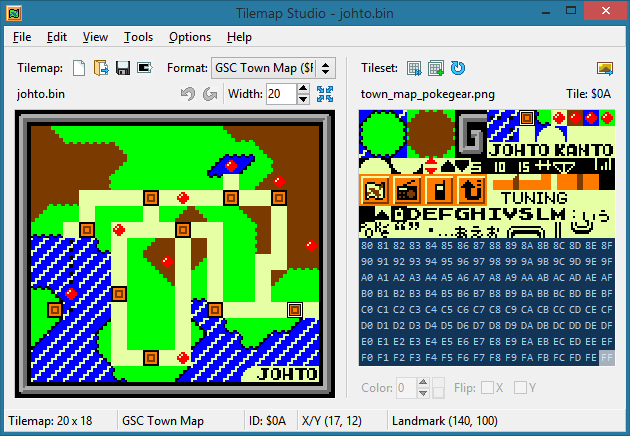
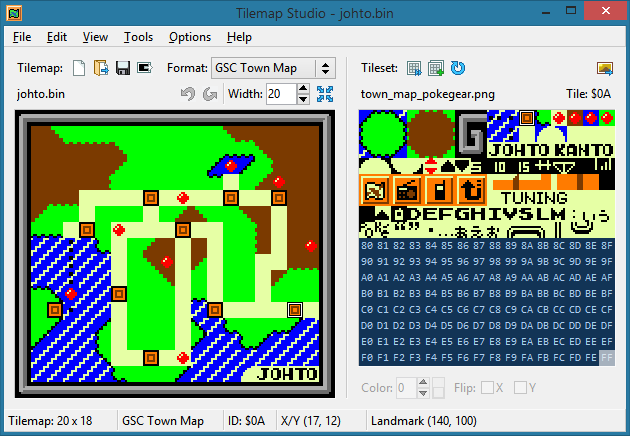
Remove unused RLE format and refactor other formats

Changed region(s): [[0.3619, 0.9541, 0.8143, 0.9839], [0.4825, 0.1491, 0.5127, 0.1789]]

diff --git a/res/help.html b/res/help.html
@@ -21,13 +21,12 @@ R"(<html>
 </ul>
 <p>Be sure to set the right format (via the Format toolbar dropdown, or the Options&nbsp;→&nbsp;Format menu) before opening a tilemap. The available formats are:</p>
 <ul>
-<li><b>Plain:</b> Each byte is a tile ID, top to bottom, left to right. A byte goes from $00 (0) to $FF (255), so there are 256 possible tiles.</li>
-<li><b>Run-length encoded (RLE):</b> Each pair of bytes encodes a tile ID and a length to repeat that tile. For example, $F0 $0D encodes a sequence of 13 tiles with ID $F0. (A length of 0 is valid but would do nothing.)</li>
-<li><b>GSC Town Map ($FF end):</b> A sequence of tile IDs ended by an $FF byte (so $FF is not a valid tile ID). Meant for the Town Map tilemaps in pokecrystal: gfx)" DIR_SEP "pokegear" DIR_SEP R"(johto.bin and kanto.bin.</li>
-<li><b>Pok&eacute;gear card (RLE + $FF end):</b> A sequence of tile IDs and run lengths, ended by an $FF byte (so $FF is not a valid tile ID). Meant for the Pok&eacute;gear card tilemaps in pokecrystal: gfx)" DIR_SEP "pokegear" DIR_SEP R"(*.tilemap.rle.</li>
-<li><b>RBY Town Map (RLE nybbles + $00 end):</b> A sequence of bytes that each encode a tile ID in their high nybble and a run length in their low nybble, ended by a $00 byte. For example, $42 encodes a sequence of two tiles with ID $04. Only 16 tile IDs can be represented, $00 to $0F. Meant for the Town Map tilemap in pokered: gfx)" DIR_SEP R"(town_map.rle.</li>
-<li><b>PC Town Map (X/Y flip):</b> A sequence of bytes that each encode a tile ID in their low six bits and X/Y flip attributes in their high two bits, ended by an $FF byte. Only 64 tile IDs can be represented, $00 to $3F. Meant for the Town Map tilemaps in <a href="https://github.com/Rangi42/polishedcrystal">Polished Crystal</a>: gfx)" DIR_SEP "town_map" DIR_SEP R"(*.bin.</li>
-<li><b>SGB border (tile + attribute):</b> Each pair of bytes encodes a tile ID and an attribute byte. The only supported attribute bits are X/Y flip and four colors. Meant for the SGB borders in pokered: gfx)" DIR_SEP "red" DIR_SEP "sgbborder.map and gfx" DIR_SEP "blue" DIR_SEP R"(sgbborder.map.</li>
+<li><b>Plain tiles:</b> Each byte is a tile ID, top to bottom, left to right. A byte goes from $00 (0) to $FF (255), so there are 256 possible tiles.</li>
+<li><b>Tiles + attributes:</b> Each pair of bytes encodes a tile ID and an attribute byte. The only supported attribute bits are X/Y flip and four colors. Meant for the SGB borders in pokered: gfx)" DIR_SEP "red" DIR_SEP "sgbborder.map and gfx" DIR_SEP "blue" DIR_SEP R"(sgbborder.map. Also applies to some other tilemaps in pokecrystal.</li>
+<li><b>RBY Town Map:</b> A sequence of bytes that each encode a tile ID in their high nybble and a run length in their low nybble, ended by a $00 byte. For example, $46 encodes a sequence of six tiles with ID $04. Only 16 tile IDs can be represented, $00 to $0F. Meant for the Town Map tilemap in pokered: gfx)" DIR_SEP R"(town_map.rle.</li>
+<li><b>GSC Town Map:</b> A sequence of tile IDs ended by an $FF byte (so $FF is not a valid tile ID). Meant for the Town Map tilemaps in pokecrystal: gfx)" DIR_SEP "pokegear" DIR_SEP R"(johto.bin and kanto.bin.</li>
+<li><b>PC Town Map:</b> A sequence of bytes that each encode a tile ID in their low six bits and X/Y flip attributes in their high two bits, ended by an $FF byte. Only 64 tile IDs can be represented, $00 to $3F. Meant for the Town Map tilemaps in <a href="https://github.com/Rangi42/polishedcrystal">Polished Crystal</a>: gfx)" DIR_SEP "town_map" DIR_SEP R"(*.bin.</li>
+<li><b>Pok&eacute;gear card:</b> A sequence of tile IDs and run lengths, ended by an $FF byte (so $FF is not a valid tile ID). For example, $F0 $0D encodes a sequence of 13 tiles with ID $F0. Meant for the Pok&eacute;gear card tilemaps in pokecrystal: gfx)" DIR_SEP "pokegear" DIR_SEP R"(*.tilemap.rle.</li>
 </ul>
 <hr>
 <p>Most functions are available via the menu bar, the toolbars, or shortcut keys.</p>

diff --git a/src/main-window.cpp b/src/main-window.cpp
@@ -72,7 +72,13 @@ Main_Window::Main_Window(int x, int y, int w, int h, const char *) : Fl_Double_W
 	wh -= _status_bar->h();
 	_tilemap_dimensions = new Status_Bar_Field(0, 0, text_width("Tilemap: 999 x 999", 8), 21, "");
 	new Spacer(0, 0, 2, 21);
-	_tilemap_format = new Status_Bar_Field(0, 0, text_width("Run-length encoded", 8), 21, "");
+	int wgt_w = 0;
+	for (int i = 0; i < NUM_FORMATS; i++) {
+		const char *l = format_name((Tilemap_Format)i);
+		int lw = text_width(l, 8);
+		if (lw > wgt_w) { wgt_w = lw; }
+	}
+	_tilemap_format = new Status_Bar_Field(0, 0, wgt_w, 21, "");
 	new Spacer(0, 0, 2, 21);
 	_hover_id = new Status_Bar_Field(0, 0, text_width("ID: $99", 8), 21, "");
 	new Spacer(0, 0, 2, 21);
@@ -92,7 +98,7 @@ Main_Window::Main_Window(int x, int y, int w, int h, const char *) : Fl_Double_W
 	int gx = _left_group->x(), gy = _left_group->y(), gw = _left_group->w(), gh = _left_group->h();
 	_left_top_bar = new Fl_Group(gx, gy, gw, wgt_h);
 	int bx = _left_top_bar->x(), by = _left_top_bar->y(), bw = _left_top_bar->w(), bh = _left_top_bar->h();
-	int wgt_w = text_width("Tilemap:", 4);
+	wgt_w = text_width("Tilemap:", 4);
 	Label *tilemap_heading = new Label(bx, by, wgt_w, bh, "Tilemap:");
 	bx += tilemap_heading->w(); bw -= tilemap_heading->w();
 	_new_tb = new Toolbar_Button(bx, by, wgt_h, wgt_h);
@@ -332,20 +338,18 @@ Main_Window::Main_Window(int x, int y, int w, int h, const char *) : Fl_Double_W
 		{},
 		OS_SUBMENU("&Options"),
 		OS_MENU_ITEM("&Format", 0, NULL, NULL, FL_SUBMENU),
-		OS_MENU_ITEM("&Plain", FL_COMMAND + '1', (Fl_Callback *)plain_format_cb, this,
+		OS_MENU_ITEM("Plain &tiles", FL_COMMAND + '1', (Fl_Callback *)plain_format_cb, this,
 			FL_MENU_RADIO | (Config::format() == Tilemap_Format::PLAIN ? FL_MENU_VALUE : 0)),
-		OS_MENU_ITEM("&Run-length encoded (RLE)", FL_COMMAND + '2', (Fl_Callback *)rle_format_cb, this,
-			FL_MENU_RADIO | (Config::format() == Tilemap_Format::RLE ? FL_MENU_VALUE : 0)),
-		OS_MENU_ITEM("GSC &Town Map ($FF end)", FL_COMMAND + '3', (Fl_Callback *)gsc_town_map_format_cb, this,
-			FL_MENU_RADIO | (Config::format() == Tilemap_Format::FF_END ? FL_MENU_VALUE : 0)),
-		OS_MENU_ITEM("Pok\xc3\xa9gear &card (RLE + $FF end)", FL_COMMAND + '4', (Fl_Callback *)pokegear_card_format_cb, this,
-			FL_MENU_RADIO | (Config::format() == Tilemap_Format::RLE_FF_END ? FL_MENU_VALUE : 0)),
-		OS_MENU_ITEM("RBY Town Map (RLE &nybbles + $00 end)", FL_COMMAND + '5', (Fl_Callback *)rby_town_map_format_cb, this,
-			FL_MENU_RADIO | (Config::format() == Tilemap_Format::RLE_NYBBLES ? FL_MENU_VALUE : 0)),
-		OS_MENU_ITEM("PC Town Map (&X\x2fY flip)", FL_COMMAND + '6', (Fl_Callback *)pc_town_map_format_cb, this,
-			FL_MENU_RADIO | (Config::format() == Tilemap_Format::XY_FLIP ? FL_MENU_VALUE : 0)),
-		OS_MENU_ITEM("&SGB border (tile + attribute)", FL_COMMAND + '7', (Fl_Callback *)sgb_border_format_cb, this,
+		OS_MENU_ITEM("Tiles + &attributes", FL_COMMAND + '2', (Fl_Callback *)sgb_border_format_cb, this,
 			FL_MENU_RADIO | (Config::format() == Tilemap_Format::TILE_ATTR ? FL_MENU_VALUE : 0)),
+		OS_MENU_ITEM("&RBY Town Map", FL_COMMAND + '3', (Fl_Callback *)rby_town_map_format_cb, this,
+			FL_MENU_RADIO | (Config::format() == Tilemap_Format::RLE_NYBBLES ? FL_MENU_VALUE : 0)),
+		OS_MENU_ITEM("&GSC Town Map", FL_COMMAND + '4', (Fl_Callback *)gsc_town_map_format_cb, this,
+			FL_MENU_RADIO | (Config::format() == Tilemap_Format::FF_END ? FL_MENU_VALUE : 0)),
+		OS_MENU_ITEM("&PC Town Map", FL_COMMAND + '5', (Fl_Callback *)pc_town_map_format_cb, this,
+			FL_MENU_RADIO | (Config::format() == Tilemap_Format::XY_FLIP ? FL_MENU_VALUE : 0)),
+		OS_MENU_ITEM("Pok\xc3\xa9gear &card", FL_COMMAND + '6', (Fl_Callback *)pokegear_card_format_cb, this,
+			FL_MENU_RADIO | (Config::format() == Tilemap_Format::RLE_FF_END ? FL_MENU_VALUE : 0)),
 		{},
 		OS_MENU_ITEM("Show SGB &Colors", FL_COMMAND + 'G', (Fl_Callback *)show_attributes_cb, this,
 			FL_MENU_TOGGLE | (Config::attributes() ? FL_MENU_VALUE : 0)),
@@ -377,12 +381,11 @@ Main_Window::Main_Window(int x, int y, int w, int h, const char *) : Fl_Double_W
 	_rose_gold_theme_mi = PM_FIND_MENU_ITEM_CB(rose_gold_theme_cb);
 	_dark_theme_mi = PM_FIND_MENU_ITEM_CB(dark_theme_cb);
 	_plain_format_mi = PM_FIND_MENU_ITEM_CB(plain_format_cb);
-	_rle_format_mi = PM_FIND_MENU_ITEM_CB(rle_format_cb);
-	_gsc_town_map_format_mi = PM_FIND_MENU_ITEM_CB(gsc_town_map_format_cb);
-	_pokegear_card_format_mi = PM_FIND_MENU_ITEM_CB(pokegear_card_format_cb);
-	_rby_town_map_format_mi = PM_FIND_MENU_ITEM_CB(rby_town_map_format_cb);
-	_pc_town_map_format_mi = PM_FIND_MENU_ITEM_CB(pc_town_map_format_cb);
 	_sgb_border_format_mi = PM_FIND_MENU_ITEM_CB(sgb_border_format_cb);
+	_rby_town_map_format_mi = PM_FIND_MENU_ITEM_CB(rby_town_map_format_cb);
+	_gsc_town_map_format_mi = PM_FIND_MENU_ITEM_CB(gsc_town_map_format_cb);
+	_pc_town_map_format_mi = PM_FIND_MENU_ITEM_CB(pc_town_map_format_cb);
+	_pokegear_card_format_mi = PM_FIND_MENU_ITEM_CB(pokegear_card_format_cb);
 	_grid_mi = PM_FIND_MENU_ITEM_CB(grid_cb);
 	_rainbow_tiles_mi = PM_FIND_MENU_ITEM_CB(rainbow_tiles_cb);
 	_show_attributes_mi = PM_FIND_MENU_ITEM_CB(show_attributes_cb);
@@ -420,13 +423,9 @@ Main_Window::Main_Window(int x, int y, int w, int h, const char *) : Fl_Double_W
 	_print_tb->image(PRINT_ICON);
 	_print_tb->deimage(PRINT_DISABLED_ICON);
 
-	_format->add("Plain");                                // PLAIN
-	_format->add("Run-length encoded (RLE)");             // RLE
-	_format->add("GSC Town Map ($FF end)");               // FF_END
-	_format->add("Pok\xc3\xa9gear card (RLE + $FF end)"); // RLE_FF_END
-	_format->add("RBY Town Map (RLE nybbles + $00 end)"); // RLE_NYBBLES
-	_format->add("PC Town Map (X\\/Y flip)");             // XY_FLIP
-	_format->add("SGB border (tile + attribute)");        // TILE_ATTR
+	for (int i = 0; i < NUM_FORMATS; i++) {
+		_format->add(format_name((Tilemap_Format)i));
+	}
 	_format->value(Config::format());
 	_format->callback((Fl_Callback *)format_tb_cb, this);
 
@@ -1630,22 +1629,8 @@ void Main_Window::plain_format_cb(Fl_Menu_ *, Main_Window *mw) {
 	mw->redraw();
 }
 
-void Main_Window::rle_format_cb(Fl_Menu_ *, Main_Window *mw) {
-	Config::format(Tilemap_Format::RLE);
-	mw->_format->value(Config::format());
-	mw->update_active_controls();
-	mw->redraw();
-}
-
-void Main_Window::gsc_town_map_format_cb(Fl_Menu_ *, Main_Window *mw) {
-	Config::format(Tilemap_Format::FF_END);
-	mw->_format->value(Config::format());
-	mw->update_active_controls();
-	mw->redraw();
-}
-
-void Main_Window::pokegear_card_format_cb(Fl_Menu_ *, Main_Window *mw) {
-	Config::format(Tilemap_Format::RLE_FF_END);
+void Main_Window::sgb_border_format_cb(Fl_Menu_ *, Main_Window *mw) {
+	Config::format(Tilemap_Format::TILE_ATTR);
 	mw->_format->value(Config::format());
 	mw->update_active_controls();
 	mw->redraw();
@@ -1658,6 +1643,13 @@ void Main_Window::rby_town_map_format_cb(Fl_Menu_ *, Main_Window *mw) {
 	mw->redraw();
 }
 
+void Main_Window::gsc_town_map_format_cb(Fl_Menu_ *, Main_Window *mw) {
+	Config::format(Tilemap_Format::FF_END);
+	mw->_format->value(Config::format());
+	mw->update_active_controls();
+	mw->redraw();
+}
+
 void Main_Window::pc_town_map_format_cb(Fl_Menu_ *, Main_Window *mw) {
 	Config::format(Tilemap_Format::XY_FLIP);
 	mw->_format->value(Config::format());
@@ -1665,8 +1657,8 @@ void Main_Window::pc_town_map_format_cb(Fl_Menu_ *, Main_Window *mw) {
 	mw->redraw();
 }
 
-void Main_Window::sgb_border_format_cb(Fl_Menu_ *, Main_Window *mw) {
-	Config::format(Tilemap_Format::TILE_ATTR);
+void Main_Window::pokegear_card_format_cb(Fl_Menu_ *, Main_Window *mw) {
+	Config::format(Tilemap_Format::RLE_FF_END);
 	mw->_format->value(Config::format());
 	mw->update_active_controls();
 	mw->redraw();
@@ -1689,8 +1681,12 @@ void Main_Window::about_cb(Fl_Widget *, Main_Window *mw) {
 void Main_Window::format_tb_cb(Dropdown *, Main_Window *mw) {
 	Config::format((Tilemap_Format)mw->_format->value());
 	Fl_Menu_Item *menu_items[NUM_FORMATS] = {
-		mw->_plain_format_mi, mw->_rle_format_mi, mw->_gsc_town_map_format_mi, mw->_pokegear_card_format_mi,
-		mw->_rby_town_map_format_mi, mw->_pc_town_map_format_mi, mw->_sgb_border_format_mi
+		mw->_plain_format_mi,         // PLAIN
+		mw->_sgb_border_format_mi,    // TILE_ATTR
+		mw->_rby_town_map_format_mi,  // RLE_NYBBLES
+		mw->_gsc_town_map_format_mi,  // FF_END
+		mw->_pokegear_card_format_mi, // XY_FLIP
+		mw->_pc_town_map_format_mi    // RLE_FF_END
 	};
 	menu_items[Config::format()]->setonly();
 	mw->update_active_controls();

diff --git a/src/main-window.h b/src/main-window.h
@@ -37,8 +37,8 @@ private:
 	Fl_Menu_Item *_classic_theme_mi = NULL, *_aero_theme_mi = NULL, *_metro_theme_mi = NULL, *_aqua_theme_mi = NULL,
 		*_greybird_theme_mi = NULL, *_metal_theme_mi = NULL, *_blue_theme_mi = NULL, *_olive_theme_mi = NULL,
 		*_rose_gold_theme_mi = NULL, *_dark_theme_mi = NULL;
-	Fl_Menu_Item *_plain_format_mi = NULL, *_rle_format_mi = NULL, *_gsc_town_map_format_mi = NULL, *_pokegear_card_format_mi = NULL,
-		*_rby_town_map_format_mi = NULL, *_pc_town_map_format_mi = NULL, *_sgb_border_format_mi = NULL;
+	Fl_Menu_Item *_plain_format_mi = NULL, *_sgb_border_format_mi = NULL, *_rby_town_map_format_mi = NULL,
+		*_gsc_town_map_format_mi = NULL, *_pc_town_map_format_mi = NULL, *_pokegear_card_format_mi = NULL;
 	Fl_Menu_Item *_grid_mi, *_rainbow_tiles_mi = NULL, *_show_attributes_mi = NULL;
 	Toolbar_Button *_new_tb, *_open_tb, *_save_tb, *_print_tb;
 	Dropdown *_format;
@@ -161,12 +161,11 @@ private:
 	static void image_to_tiles_cb(Fl_Widget *w, Main_Window *mw);
 	// Options menu
 	static void plain_format_cb(Fl_Menu_ *m, Main_Window *mw);
-	static void rle_format_cb(Fl_Menu_ *m, Main_Window *mw);
-	static void gsc_town_map_format_cb(Fl_Menu_ *m, Main_Window *mw);
-	static void pokegear_card_format_cb(Fl_Menu_ *m, Main_Window *mw);
-	static void rby_town_map_format_cb(Fl_Menu_ *m, Main_Window *mw);
-	static void pc_town_map_format_cb(Fl_Menu_ *m, Main_Window *mw);
 	static void sgb_border_format_cb(Fl_Menu_ *m, Main_Window *mw);
+	static void rby_town_map_format_cb(Fl_Menu_ *m, Main_Window *mw);
+	static void gsc_town_map_format_cb(Fl_Menu_ *m, Main_Window *mw);
+	static void pc_town_map_format_cb(Fl_Menu_ *m, Main_Window *mw);
+	static void pokegear_card_format_cb(Fl_Menu_ *m, Main_Window *mw);
 	static void show_attributes_cb(Fl_Menu_ *m, Main_Window *mw);
 	// Help menu
 	static void help_cb(Fl_Widget *w, Main_Window *mw);

diff --git a/src/tilemap-format.cpp b/src/tilemap-format.cpp
@@ -20,19 +20,17 @@ int format_tileset_size(Tilemap_Format fmt) {
 const char *format_name(Tilemap_Format fmt) {
 	switch (fmt) {
 	case Tilemap_Format::PLAIN:
-		return "Plain";
-	case Tilemap_Format::RLE:
-		return "Run-length encoded";
-	case Tilemap_Format::FF_END:
-		return "GSC Town Map";
-	case Tilemap_Format::RLE_FF_END:
-		return "Pok\xc3\xa9gear card";
+		return "Plain tiles";
+	case Tilemap_Format::TILE_ATTR:
+		return "Tiles + attributes";
 	case Tilemap_Format::RLE_NYBBLES:
 		return "RBY Town Map";
+	case Tilemap_Format::FF_END:
+		return "GSC Town Map";
 	case Tilemap_Format::XY_FLIP:
 		return "PC Town Map";
-	case Tilemap_Format::TILE_ATTR:
-		return "SGB border";
+	case Tilemap_Format::RLE_FF_END:
+		return "Pok\xc3\xa9gear card";
 	default:
 		return "Any";
 	}
@@ -43,7 +41,6 @@ const char *format_extension(Tilemap_Format fmt) {
 	case Tilemap_Format::PLAIN:
 	default:
 		return ".tilemap"; // e.g. pokecrystal/gfx/card_flip/card_flip.tilemap
-	case Tilemap_Format::RLE:
 	case Tilemap_Format::RLE_NYBBLES:
 		return ".rle"; // e.g. pokered/gfx/town_map.rle
 	case Tilemap_Format::FF_END:

diff --git a/src/option-dialogs.cpp b/src/option-dialogs.cpp
@@ -373,13 +373,9 @@ void Image_To_Tiles_Dialog::initialize_content() {
 	_image_name->callback((Fl_Callback *)image_cb, this);
 	_tilemap_name->callback((Fl_Callback *)tilemap_cb, this);
 	_tileset_name->callback((Fl_Callback *)tileset_cb, this);
-	_format->add("Plain");                                // PLAIN
-	_format->add("Run-length encoded (RLE)");             // RLE
-	_format->add("GSC Town Map ($FF end)");               // FF_END
-	_format->add("Pok\xc3\xa9gear card (RLE + $FF end)"); // RLE_FF_END
-	_format->add("RBY Town Map (RLE nybbles + $00 end)"); // RLE_NYBBLES
-	_format->add("PC Town Map (X\\/Y flip)");             // XY_FLIP
-	_format->add("SGB border (tile + attribute)");        // TILE_ATTR
+	for (int i = 0; i < NUM_FORMATS; i++) {
+		_format->add(format_name((Tilemap_Format)i));
+	}
 	_start_id->default_value(0x00);
 	_image_chooser->title("Read Image");
 	_image_chooser->filter("Image Files\t*.{png,bmp}\n");

diff --git a/src/tilemap.cpp b/src/tilemap.cpp
@@ -184,20 +184,6 @@ Tilemap::Result Tilemap::read_tiles(const char *f) {
 		}
 	}
 
-	else if (fmt == Tilemap_Format::RLE) {
-		if (c % 2) {
-			fclose(file);
-			return (_result = TILEMAP_TOO_SHORT_FF);
-		}
-		for (long i = 0; i < c; i += 2) {
-			int v = fgetc(file);
-			int r = fgetc(file);
-			for (int j = 0; j < r; j++) {
-				tiles.emplace_back(new Tile_Tessera(0, 0, 0, 0, (uint8_t)v));
-			}
-		}
-	}
-
 	else if (fmt == Tilemap_Format::FF_END) {
 		for (long i = 0; i < c - 1; i++) {
 			int b = fgetc(file);
@@ -340,7 +326,7 @@ bool Tilemap::write_tiles(const char *f, std::vector<Tile_Tessera *> &tiles, Til
 			fputc(v, file);
 		}
 	}
-	else if (fmt == Tilemap_Format::RLE || fmt == Tilemap_Format::RLE_FF_END) {
+	else if (fmt == Tilemap_Format::RLE_FF_END) {
 		size_t n = tiles.size();
 		for (size_t i = 0; i < n;) {
 			Tile_Tessera *tt = tiles[i++];

diff --git a/src/tilemap-format.h b/src/tilemap-format.h
@@ -1,9 +1,9 @@
 #ifndef TILEMAP_FORMAT_H
 #define TILEMAP_FORMAT_H
 
-#define NUM_FORMATS 7
+#define NUM_FORMATS 6
 
-enum Tilemap_Format { PLAIN, RLE, FF_END, RLE_FF_END, RLE_NYBBLES, XY_FLIP, TILE_ATTR };
+enum Tilemap_Format { PLAIN, TILE_ATTR, RLE_NYBBLES, FF_END, XY_FLIP, RLE_FF_END };
 
 int format_tileset_size(Tilemap_Format fmt);
 const char *format_name(Tilemap_Format fmt);
